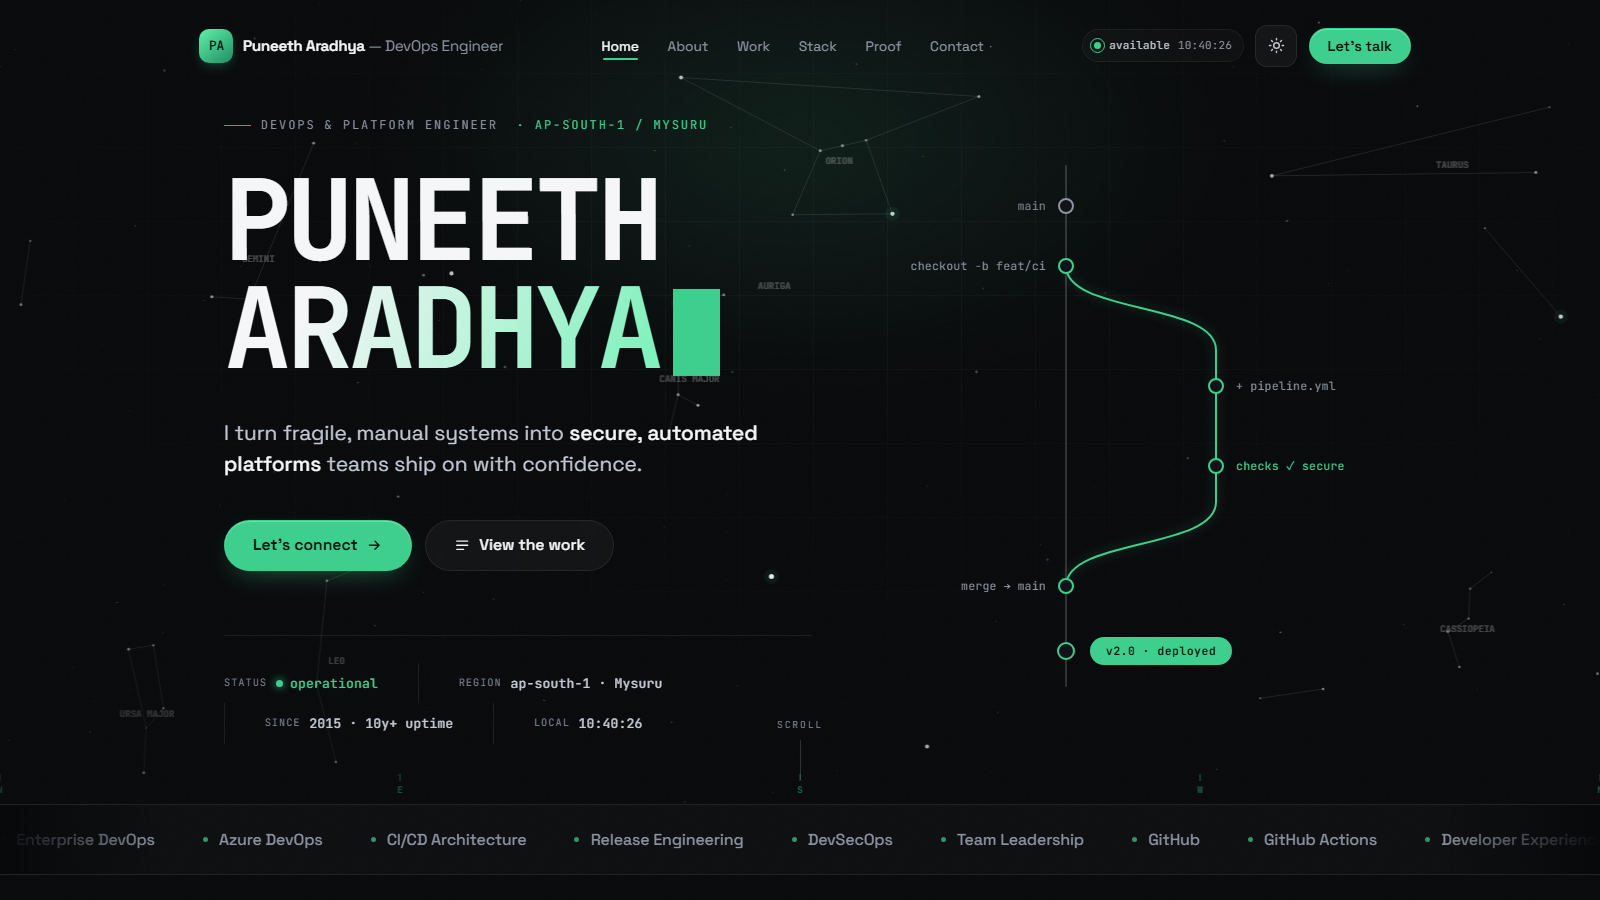
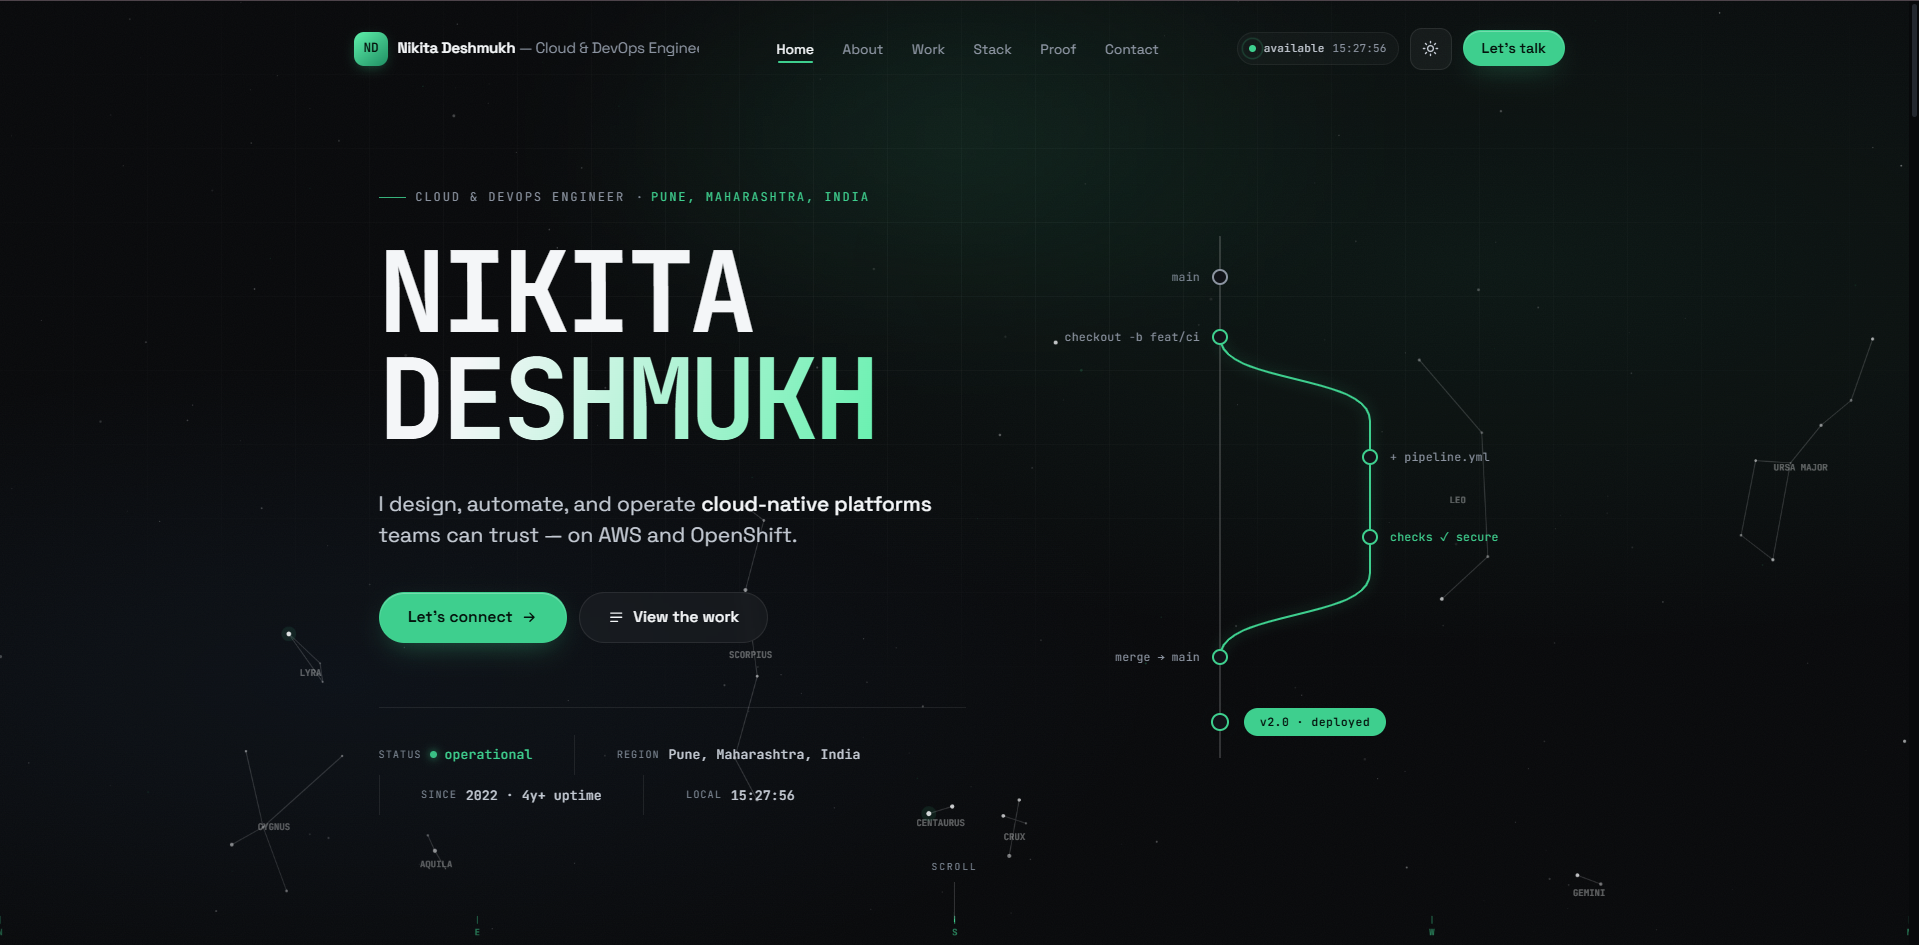
commit 2

diff --git a/req/css/styles.css b/req/css/styles.css
@@ -573,7 +573,7 @@ body.has-cursor .cursor.is-visible { opacity: 1; }
 .git .g-line { fill: none; stroke-linecap: round; stroke-dasharray: 1; stroke-dashoffset: 1; }
 .git .g-main { stroke: var(--line-strong); stroke-width: 2; transition: stroke-dashoffset 1.3s var(--ease-in-out) 0.25s; }
 .git .g-branch { stroke: var(--accent); stroke-width: 2; filter: drop-shadow(0 0 6px var(--accent-a40)); transition: stroke-dashoffset 1.5s var(--ease-in-out) 0.85s, filter 0.6s var(--ease-out); }
-.hero.is-in .git .g-line { stroke-dashoffset: 0; }
+.hero__graph.is-in .git .g-line { stroke-dashoffset: 0; }
 
 /* entrance delay rides --gd/--gt so hover effects (r, filter,
    stroke, fill — separate transitions) respond instantly */
@@ -584,7 +584,7 @@ body.has-cursor .cursor.is-visible { opacity: 1; }
 }
 .git .g-c--main { stroke: var(--ink-muted); }
 .git .g-c--acc { stroke: var(--accent); }
-.hero.is-in .git .g-c { transform: scale(1); }
+.hero__graph.is-in .git .g-c { transform: scale(1); }
 .git .g-c.d1 { --gd: 0.5s; }
 .git .g-c.d2 { --gd: 0.95s; }
 .git .g-c.d3 { --gd: 1.35s; }
@@ -599,7 +599,7 @@ body.has-cursor .cursor.is-visible { opacity: 1; }
 }
 .git .g-t--acc { fill: var(--accent); }
 .git .g-t--dim { fill: var(--ink-faint); }
-.hero.is-in .git .g-t { opacity: 1; transform: none; }
+.hero__graph.is-in .git .g-t { opacity: 1; transform: none; }
 .git .g-t.d1 { --gt: 0.62s; }
 .git .g-t.d2 { --gt: 1.05s; }
 .git .g-t.d3 { --gt: 1.45s; }
@@ -607,11 +607,11 @@ body.has-cursor .cursor.is-visible { opacity: 1; }
 .git .g-t.d5 { --gt: 2.15s; }
 
 .git .g-tag { opacity: 0; transform: translateY(6px); transform-box: fill-box; transition: opacity 0.55s var(--ease-out) 2.35s, transform 0.55s var(--ease-spring) 2.35s; }
-.hero.is-in .git .g-tag { opacity: 1; transform: none; }
+.hero__graph.is-in .git .g-tag { opacity: 1; transform: none; }
 .git .g-tag rect { fill: var(--accent); transition: fill 0.25s var(--ease-out), filter 0.3s var(--ease-out); }
 .git .g-tag text { font-family: var(--font-mono); font-size: 11.5px; font-weight: 600; letter-spacing: 0.04em; fill: var(--accent-ink); }
 .git .g-ring { fill: none; stroke: var(--accent); stroke-width: 1.5; transform-box: fill-box; transform-origin: center; opacity: 0; }
-.hero.is-in .git .g-ring { animation: gring 2.6s var(--ease-out) 2.5s infinite; }
+.hero__graph.is-in .git .g-ring { animation: gring 2.6s var(--ease-out) 2.5s infinite; }
 @keyframes gring { 0% { transform: scale(0.5); opacity: 0.9; } 70%, 100% { transform: scale(1.9); opacity: 0; } }
 
 /* ── 11b. Git graph — micro-interactions ────────────────────── *
@@ -635,7 +635,7 @@ body.has-cursor .cursor.is-visible { opacity: 1; }
   stroke-dasharray: 0.085 1; stroke-dashoffset: 0.085; opacity: 0;
   filter: drop-shadow(0 0 7px var(--accent));
 }
-.hero.is-in .git .g-flow { animation: gitflow 7.5s linear 4.2s infinite; }
+.hero__graph.is-in .git .g-flow { animation: gitflow 7.5s linear 4.2s infinite; }
 @keyframes gitflow {
   0%        { stroke-dashoffset: 0.085; opacity: 0; }
   4%        { opacity: 0.95; }

diff --git a/req/js/main.js b/req/js/main.js
@@ -75,7 +75,7 @@
     if (themeBtn) themeBtn.setAttribute('aria-label', t === 'light' ? 'Switch to dark theme' : 'Switch to light theme');
     window.dispatchEvent(new CustomEvent('themechange'));
   }
-  applyTheme(document.documentElement.getAttribute('data-theme') || 'light', false);
+  applyTheme(document.documentElement.getAttribute('data-theme') || 'dark', false);
   if (themeBtn) themeBtn.addEventListener('click', function () {
     var next = document.documentElement.getAttribute('data-theme') === 'light' ? 'dark' : 'light';
     if (!reduce) {
@@ -173,11 +173,33 @@
     });
   }
   var decoded = false;
+  function watchGitGraph() {
+    var graph = $('.hero__graph');
+    if (!graph) return;
+    function play() {
+      if (reduce) { graph.classList.add('is-in'); return; }
+      graph.classList.remove('is-in');
+      void graph.offsetWidth;
+      graph.classList.add('is-in');
+    }
+    if (!('IntersectionObserver' in window)) { play(); return; }
+    var ready = false;
+    var gObs = new IntersectionObserver(function (entries) {
+      entries.forEach(function (en) {
+        if (!en.isIntersecting) { ready = false; return; }
+        if (ready) return;
+        ready = true;
+        play();
+      });
+    }, { threshold: 0.28, rootMargin: '0px 0px -10% 0px' });
+    gObs.observe(graph);
+  }
   function heroIn() {
     if (decoded) return; decoded = true;
     var hero = $('#hero') || $('.hero') || $('#home');
     if (hero) hero.classList.add('is-in');
     runDecodes();
+    watchGitGraph();
   }
   document.addEventListener('preloader:done', heroIn);
   // Fallbacks: preloader already gone, or something stalled.

diff --git a/index.html b/index.html
@@ -1,5 +1,5 @@
 <!DOCTYPE html>
-<html lang="en" data-theme="light">
+<html lang="en" data-theme="dark">
 <head>
 <meta charset="UTF-8">
 <meta name="viewport" content="width=device-width, initial-scale=1.0">
@@ -15,15 +15,15 @@ content="Nikita Deshmukh, Nikita, Cloud DevOps Engineer, DevOps Engineer Pune, A
 <meta name="co-author:linkedin" content="https://linkedin.com/in/aradhya-pavan">
 <meta name="co-author:github" content="https://github.com/aradhyapavan">
 <meta name="robots" content="index, follow">
-<meta name="theme-color" content="#f2f5f2">
+<meta name="theme-color" content="#08090b">
 <meta http-equiv="Cache-Control" content="max-age=86400, public">
 <script>
 /* Theme boot — runs before first paint so there is no flash.
- * Light is the default; dark only when the visitor chose it. */
+ * Dark is the default; light only when the visitor chose it. */
 (function () {
   var t = null;
   try { t = localStorage.getItem('theme'); } catch (e) {}
-  if (t !== 'light' && t !== 'dark') t = 'light';
+  if (t !== 'light' && t !== 'dark') t = 'dark';
   document.documentElement.setAttribute('data-theme', t);
 })();
 </script>
